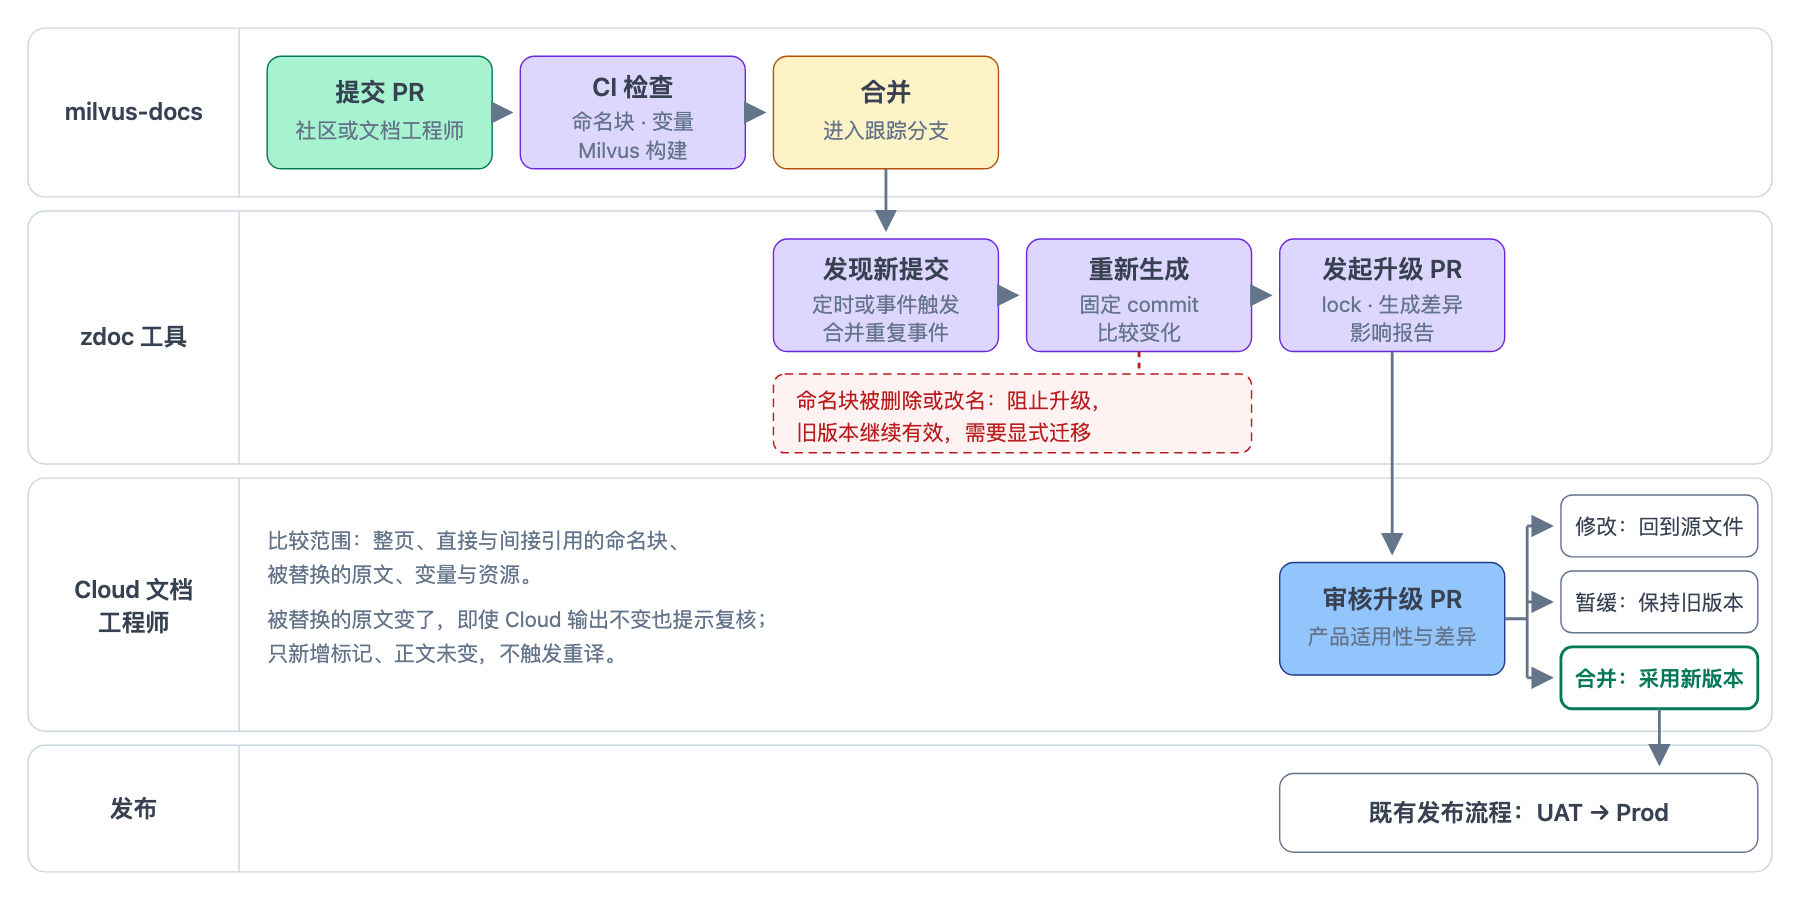
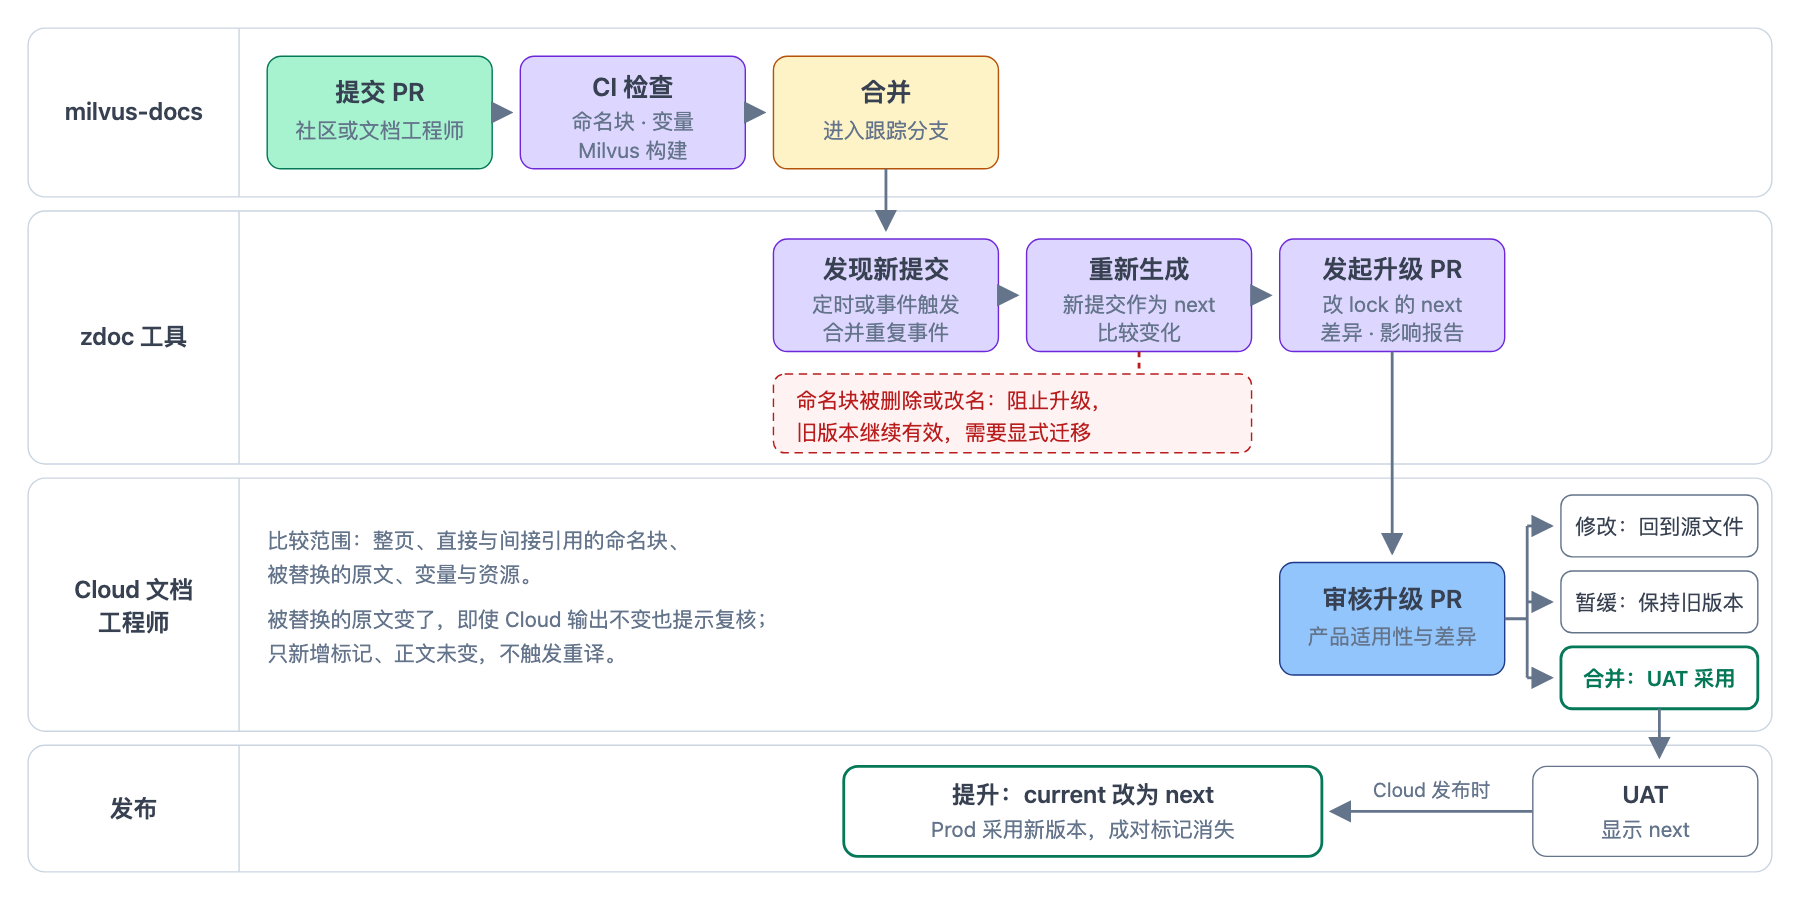
docs: describe two-commit release channels for shared pages
The page lock records current and next milvus-docs commits. Upgrade PRs move
next, so UAT sees the change first; a promotion at Cloud release moves current.
Differing blocks are wrapped in NextChannel pairs by the generator, replacing
the earlier named-block wrapping, which could not keep the old text in Prod.

Updates the proposal (section 4.1, decision 4), architecture (section 4,
upgrade flow, glossary), consumption schema, phase-1 tasks and the four
affected figures.

diff --git a/docs/proposal.md b/docs/proposal.md
@@ -34,11 +34,11 @@
 
 **共享正文在 milvus-docs 维护一份，以 Git 为准；Cloud 在 zdoc 中维护建在其上的差异层（overlay），飞书按页退出文档生产链。**
 
-![目标协作方式：社区贡献者和文档工程师向 milvus-docs 提交共享内容，Milvus 沿用既有发布；文档工程师在 zdoc 维护 Cloud 差异与配置。上游变化后，工具在 zdoc 自动发起升级 PR，附生成结果与影响提示；Cloud 审核后合并即采用并按 UAT / Prod 发布，暂不合并则保持已批准版本；需要修改时回到对应源文件。](./assets/collaboration-overview.png)
+![目标协作方式：社区贡献者和文档工程师向 milvus-docs 提交共享内容，Milvus 沿用既有发布；文档工程师在 zdoc 维护 Cloud 差异与配置。上游变化后，工具在 zdoc 自动发起升级 PR，附生成结果与影响提示；Cloud 审核后合并，新版本先在 UAT 可见，Cloud 发布时进入 Prod；暂不合并则保持已批准版本；需要修改时回到对应源文件。](./assets/collaboration-overview.png)
 
 图 2 · 目标协作方式
 - **谁改哪里。** 共同内容改 milvus-docs，Cloud 差异和配置改 zdoc。同一位文档工程师可以两边都改；迁移后的页面不再在飞书编辑。
-- **Cloud 怎样控制发布时间（要求 2、5）。** 上游合并后，工具在 zdoc 自动发起升级 PR。合并即采用；不合并，Cloud 就继续使用已批准的版本。
+- **Cloud 怎样控制发布时间（要求 2、5）。** 上游合并后，工具在 zdoc 自动发起升级 PR。合并后新版本先在 UAT 可见，Cloud 发布时才进入 Prod；不合并，两边都继续使用已批准的版本。
 - **共享原文由谁把关。** milvus-docs 的 PR 按 Milvus 既有流程审核，不需要 Cloud 参与。如果混入只适用于 Milvus 的内容，Cloud 在升级 PR 中处理：暂缓采用、请求改成两端通用的写法，或在 zdoc 中移除该段。Milvus 贡献说明届时补充共享页的写法。
 - **生成文件不能手改。** CI 按固定输入重新生成并比对；发现问题时，回到图中对应的源文件修改。
 
@@ -48,7 +48,7 @@
 |---|---|---|
 | 共享页的共同内容 | 在飞书编辑，再导出到 Milvus | 向 milvus-docs 提交 PR |
 | 共享页的 Cloud 差异 | 在飞书正文中直接改写 | 在 zdoc 维护页面配置和 Cloud 内容文件 |
-| 代码的产品差异、Current / Next 标记 | 写在飞书正文和多维表格中 | 共享页的代码行差异改写在页面配置中；其余写法不变，写在 Git 中（见第 4 节） |
+| 代码的产品差异、Current / Next 标记 | 写在飞书正文和多维表格中 | 共享页：代码行差异写在页面配置中，Current / Next 由工具按两个版本自动区分，不再手动标记；其余写法不变，写在 Git 中（见第 4 节） |
 | 审核与预览 | 飞书内审阅，UAT 查看结果 | GitHub PR 审核，PR 预览与 UAT 查看结果 |
 | Cloud 独有页 | 在飞书编辑 | 首期不变；终态在 zdoc 以 Markdown / MDX 维护 |
 
@@ -83,12 +83,23 @@
 
 ### 4.1 Milvus 先上线、Cloud 后上线的内容
 
-举一个场景：Milvus 发布了新参数 X，共享页 A 新增了一段介绍 X 的内容，同一次修改还修正了 A 中的一处错误。Cloud 下个月才支持 X。
+举一个场景：Milvus 发布了新参数 X，共享页 A 新增了一段介绍 X 的内容，同一次修改还改写了 A 中几处已有的说明。Cloud 下个月才支持 X。
 
-- **整页都不想更新**：不合并升级 PR，Cloud 继续使用已批准的版本（要求 2）。
-- **页面要更新，但其中一段 Cloud 尚未上线**：在同一个升级 PR 中，由 zdoc 把这一段包进 `<NextChannel>`，再合并。UAT 能看到，Prod 看不到；Cloud 上线 X 后去掉包裹（要求 3）。前提是原文中这一段有命名块。
+**建议：lock 记录两个 milvus-docs 版本，Prod 读 `current`，UAT 读 `next`。**
 
-这沿用 zdoc 现有的 Current / Next 机制：UAT 与 Prod 使用同一镜像，部署时按通道显示内容；段落用 `<NextChannel>` 包裹，上线时去掉包裹。整页的通道目前记录在飞书多维表格的 `Release Channel` 字段中，迁移后需要在 Git 中有对应的位置，例如页面配置。
+- **升级 PR 只更新 `next`。** 工具用两个版本各生成一遍 Cloud 页面，再按块（段落、标题、列表、整个代码组等）比较：相同的块只输出一次，不同的块输出成一对 `<NextChannel>`，Prod 显示旧文，UAT 显示新文（要求 3）。
+- **Cloud 发布时，把 `current` 改为 `next` 的值。** 重新生成后，成对的标记自动消失，不需要逐处去掉。
+- **原文不需要为通道做任何事。** 新增、修改还是删除，改动多细碎，都不用加命名块或通道标记。
+
+在这个场景中，X 的介绍和改写后的说明都只在 UAT 可见，Prod 保持原样；Cloud 支持 X 并发布后，两者一起进入 Prod。如果连 UAT 也暂时不想更新，就不合并升级 PR（要求 2）。[本地原型](../examples/filtered-search/two-commit/walkthrough.md)已验证：每个通道看到的正好是自己那个版本的生成结果；两个版本相同时，输出不带任何通道标记。
+
+这沿用 zdoc 现有的 Current / Next 机制：UAT 与 Prod 使用同一镜像，部署时按通道显示内容。区别是成对的 `<NextChannel>` 由工具生成，不再手动包裹。整页的通道目前记录在飞书多维表格的 `Release Channel` 字段中，迁移后需要在 Git 中有对应的位置，例如页面配置。
+
+需要确认的前提：
+
+- Cloud 的 Next 对应下一次 Cloud 发布。
+- 共享页的措辞修正默认随下次 Cloud 发布进入 Prod。确需提前上线时，把 `current` 也一并更新，再用命名块把尚未上线的一段包进 `<NextChannel>`，作为例外手段。
+- zdoc 渲染 `<NextChannel>` 包住列表、提示框和代码 Tabs 的效果，以及目录如何处理其中的标题，仍需核实。
 
 ## 5. 试点与路线
 
@@ -114,7 +125,7 @@
 | 1 | 共享原文来源 | 读取 md2md 处理前的 milvus-docs 固定版本原文，不从 web-content 读取 |
 | 2 | 飞书退出方式与终态 | 按页切换；终态是共享页与 Cloud 独有页均在 Git 维护 |
 | 3 | 差异表达原则 | 段落、章节与代码行差异都写在 zdoc；原文只加中性命名块，不写产品指令 |
-| 4 | Current / Next | 沿用 zdoc 渲染时通道过滤；新增“包裹共享命名块”的能力 |
+| 4 | Current / Next | 沿用 zdoc 渲染时的通道过滤；共享页的 lock 记录 current / next 两个版本，差异由工具成对包进 `<NextChannel>`（先确认第 4.1 节的前提） |
 | 5 | 试点候选 | 1a 用 Delete Entities；1b 用 Filtered Search 与 OpenAI |
 | 6 | 首期范围与年底目标 | 首期按 1a、1b 推进；建议年底前完成 1a，并启动 1b |
 | 7 | 共享内容把关 | Cloud 不审核 milvus-docs PR，在升级 PR 中把关；补充 Milvus 贡献说明 |

diff --git a/docs/consumption-schema.md b/docs/consumption-schema.md
@@ -7,7 +7,7 @@
 ## 1. 需要对齐的约束
 
 - **按身份定位。** 先按整页、命名块和语言定位；只有代码行可以在已定位的语言示例内按连续整行的原文定位。不使用行号、正则、全文搜索或标题选择器。
-- **差异只有三种动作**：add、replace、remove，另可让命名块只在 Next 显示；不按业务类型增加专门的操作。
+- **差异只有三种动作**：add、replace、remove；不按业务类型增加专门的操作。
 - **变量沿用 md2md**：`Variables.json` 与 `{{var.xxx}}`；缺少 Cloud 绑定时报错，不静默使用 Milvus 的值。
 - **原文不写 Cloud 的内容**：段落、章节和代码行的差异都写在 zdoc，原文只加中性的命名块，不写产品指令或条件。
 - **生成文件不能手改**：发现问题回到对应的源文件。
@@ -199,9 +199,9 @@ transforms:
 |---|---|
 | Cloud 内容文件中新增或替换的内容 | 在文件里直接用 `<NextChannel action="include">` 包住 |
 | 整个页面 | 页面配置中的通道字段（**写法待定**，用来替代飞书多维表格中的 `Release Channel`） |
-| 共享原文中的一段 | 原文为这一段加命名块，在页面配置中声明它只在 Next 显示（**写法待定**） |
+| 共享原文中的变化 | 不需要写。lock 中 `current` 与 `next` 两个版本的差异由工具成对包进 `<NextChannel>` |
 
-共享原文本身不写通道标记。Cloud 上线后，去掉对应的声明或包裹即可。场景说明见[方案总览第 4.1 节](./proposal.md#41-milvus-先上线cloud-后上线的内容)。
+共享原文本身不写通道标记。Cloud 上线后，Cloud 内容文件去掉包裹、整页改通道字段；共享原文的差异在提升 lock 后自动消失，规则见[架构设计第 4 节](./architecture.md#4-发布通道与内容过滤)。场景说明见[方案总览第 4.1 节](./proposal.md#41-milvus-先上线cloud-后上线的内容)。
 
 ## 4. 什么情况会报错
 
@@ -225,8 +225,8 @@ transforms:
 | 页面元数据 | 样例的 `metadata` 与 zdoc 现有的 front matter 和导航配置重复，应挂接现有手册注册，而不是重新定义 |
 | 页面目录 | 样例为每个共享页面建一个 `shared-pages/<页面>/` 目录，放页面配置和 Cloud 内容文件；它在 zdoc 中的位置，以及是否与现有内容目录或手册注册对应 |
 | 注册文件 | `shared/modules.yaml` 让文件改名时模块 ID 不变，但多一个共用文件；试点阶段是否可以简化 |
-| lock 粒度与跟踪分支 | 每页独立采用还是全仓统一；Cloud 跟踪哪个 Milvus 版本分支 |
-| 发布通道 | 整页通道迁出飞书多维表格后放在哪里；命名块只在 Next 显示的写法；Git 页面的整页通道怎样传递到译文 |
+| lock 粒度与跟踪分支 | 每页独立采用还是全仓统一；Cloud 跟踪哪个 Milvus 版本分支；`current` / `next` 的字段写法与提升方式 |
+| 发布通道 | 整页通道迁出飞书多维表格后放在哪里；Git 页面的整页通道怎样传递到译文 |
 
 ## 6. 字段参考（样例中的草案）
 
@@ -259,4 +259,4 @@ transforms:
 - 用脚本动态生成内容、插件式的自定义操作、自动判断不同语言示例是否等价。
 - 独立编排多个共享命名块的页面：保留为扩展路径。
 
-本地样例覆盖 Markdown 块、语言项和代码行三级的 add / replace / remove，其中代码行级用 Filtered Search 的合成用例测试；Next 包裹以及真实的 md2md、Docusaurus 构建仍需工程实现。验证状态见[首期实施计划](./phase-1.md#7-当前证据本地样例)。
+本地样例覆盖 Markdown 块、语言项和代码行三级的 add / replace / remove，其中代码行级用 Filtered Search 的合成用例测试；双版本通道另有[本地原型](../examples/filtered-search/two-commit/walkthrough.md)。NextChannel 的实际渲染以及真实的 md2md、Docusaurus 构建仍需工程实现。验证状态见[首期实施计划](./phase-1.md#7-当前证据本地样例)。

diff --git a/research/zdoc-variants-and-channels-audit.md b/research/zdoc-variants-and-channels-audit.md
@@ -39,6 +39,8 @@
 
 **对共享方案的结论：** Cloud 自有片段可以直接使用 `<NextChannel>`；整页通道可放在 Cloud 页面配置中；共享原文中需要只在 Next 显示的内容，由 zdoc 用 `<NextChannel>` 包裹对应命名块，原文不写通道标记。仍需与文档负责人确认此类情况的频率与常见粒度。
 
+**后续建议（2026-10-12）：** 包裹命名块只适合“新增一段”；修改已有内容时 Prod 无法保留旧文，细碎改动也难以逐处加命名块。建议改为 lock 记录 `current` 与 `next` 两个版本，由工具按块比较并成对生成 `<NextChannel>`，见[架构设计第 4 节](../docs/architecture.md#4-发布通道与内容过滤)。上面的结论保留为核验记录。
+
 ## 3. OpenAI 页对照
 
 对照 [Milvus 原文](https://github.com/milvus-io/milvus-docs/blob/7d87b0bf26d7cbc713f40af6453ea2f925367901/site/en/userGuide/embeddings-reranking/embedding-function/openai.md)与 [Cloud 页面](https://github.com/zilliztech/zdoc/blob/3777ec0b322546d716485e8f88da8412b0265e71/content/en/guides/tutorials/development/function/text-embedding-functions/openai.md)：
